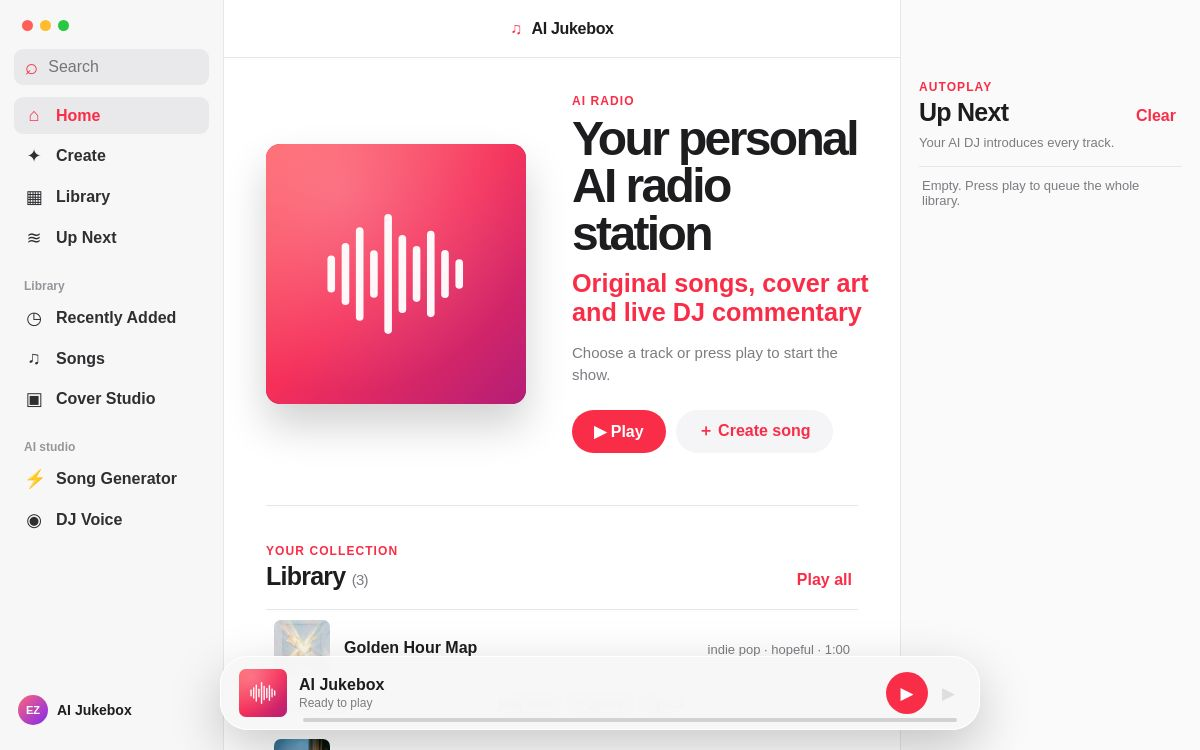
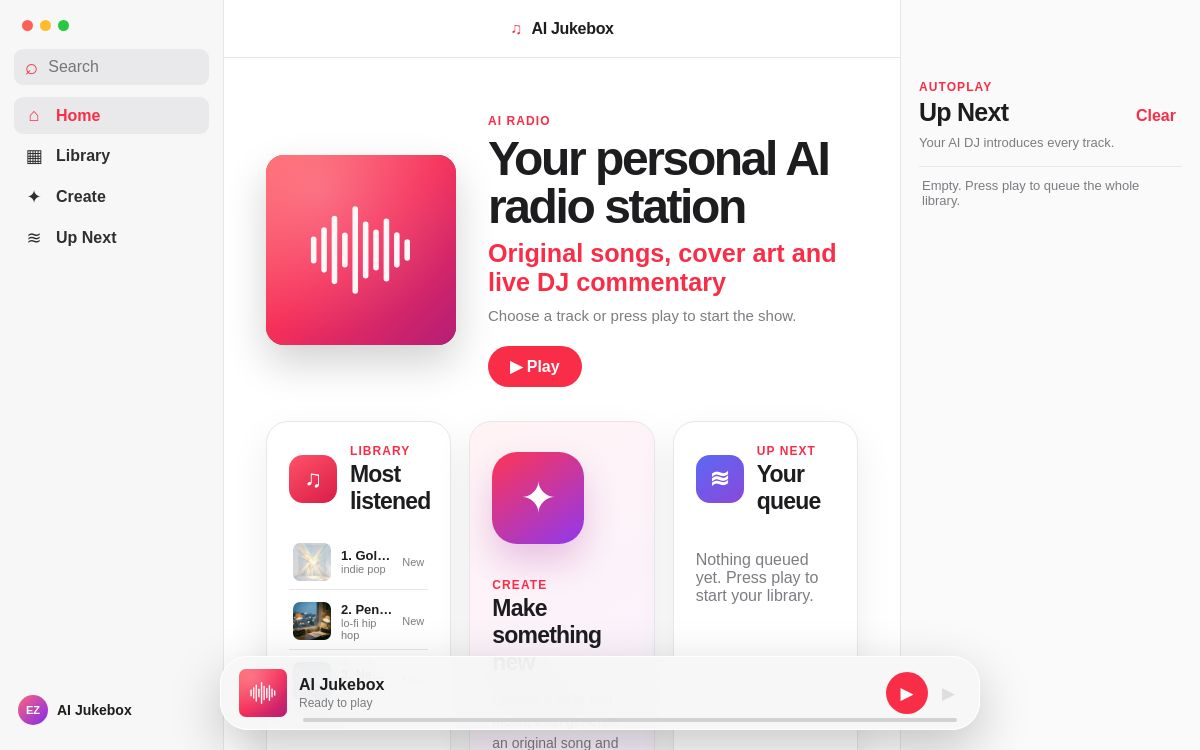
Update README for current Jukebox interface

diff --git a/README.md b/README.md
@@ -15,6 +15,7 @@ AI Jukebox is a full-stack music application for MBAX 6418 Assignment 3. It crea
 3. **Integrated AI DJ:** Qwen writes song-specific transitions and Chatterbox speaks them before each queued song. The player uses one audio element, so DJ speech and music cannot overlap.
 4. **DJ voice cloning:** the default Chatterbox voice works without an upload. A user may upload an MP3 or WAV reference that they have permission to use, then reset to the default voice.
 5. **Session library:** completed songs are stored in D1/R2, appear in the library, and may be played or queued immediately.
+6. **Music-focused home dashboard:** the restored AI Radio header sits above three cards for the most-listened tracks, the creation studio, and the current queue. Listen counts are kept in the visitor's browser and update when a song begins.
 
 ![Library and playback controls](docs/screenshots/jukebox-library-player.jpg)
 
@@ -34,7 +35,7 @@ The application uses only the class-provided services and does not use paid serv
 - Node.js 22.13 or newer
 - npm (included with Node.js)
 - Git for repository workflows
-- Access to the four class endpoints above
+- Access to the four required class services
 - One class API key
 - For local development, Cloudflare Wrangler/Miniflare is installed through `npm ci`
 
@@ -76,11 +77,22 @@ node --import ./scripts/sites-env.mjs ./node_modules/wrangler/bin/wrangler.js d1
 
 Run the migration only once for a fresh local state directory.
 
+## App navigation
+
+The interface uses separate views instead of one long scrolling page:
+
+- **Home:** shows the AI Radio artwork and playback header, the three most-listened tracks, a shortcut to the studio, and a preview of Up Next.
+- **Library:** contains every available track with play, queue, lyrics, and artwork actions.
+- **Create:** contains the searchable style and mood controls, song generator, cover workflow, generation status, and DJ voice settings.
+- **Up Next:** opens the queue panel used by the AI DJ sequence.
+
+The sidebar intentionally contains only these primary destinations. Selecting a track in the Home ranking plays it immediately. The persistent bottom player remains available in every view and reports whether the DJ or a song is currently playing.
+
 ## How to exercise the required features
 
 ### 1. Generate a custom song
 
-1. Open **Create** or **Song Generator**.
+1. Open **Create** from the sidebar or the Home studio card.
 2. Search for or type a style and mood.
 3. Select a duration and choose **Vocal** or **Instrumental**.
 4. Optionally enter a title and theme.
@@ -105,7 +117,7 @@ The cover below was generated during the documented end-to-end test for “Evide
 
 ### 4. Customize the DJ voice
 
-Open **DJ Voice**, upload a permitted MP3 or WAV between 2 KB and 10 MB, and play the next queued track. Use reset to remove the stored reference and return to the default voice. Voice-reference files are runtime data and are never part of the repository or ZIP.
+Open **Create**, scroll to **DJ voice**, upload a permitted MP3 or WAV between 2 KB and 10 MB, and play the next queued track. Use reset to remove the stored reference and return to the default voice. Voice-reference files are runtime data and are never part of the repository or ZIP.
 
 ## Included sample songs
 
@@ -141,7 +153,7 @@ Latest verified checks:
 
 The most important design choice was using one HTML audio element for both DJ clips and songs. The queue is an explicit state machine: `dj-loading → dj → song → next track`. Testing showed that the DJ MP3 finishes before the track is loaded, eliminating overlap and keeping pause, skip, seeking, and progress behavior consistent. Prefetching the next DJ script reduces silence without playing two sources simultaneously.
 
-The interface intentionally resembles a familiar music library rather than an “AI dashboard.” Searchable style and mood controls still allow free typing, while the persistent bottom player exposes the currently active phase.
+The interface intentionally resembles a familiar music library rather than an “AI dashboard.” Home preserves the recognizable radio artwork and headline while providing three practical cards in a left-to-right hierarchy: Library, Create, and Up Next. Separate Home, Library, and Create views keep each task focused. Searchable style and mood controls still allow free typing, while the persistent bottom player exposes the currently active phase.
 
 ## Investigated limitation
 
